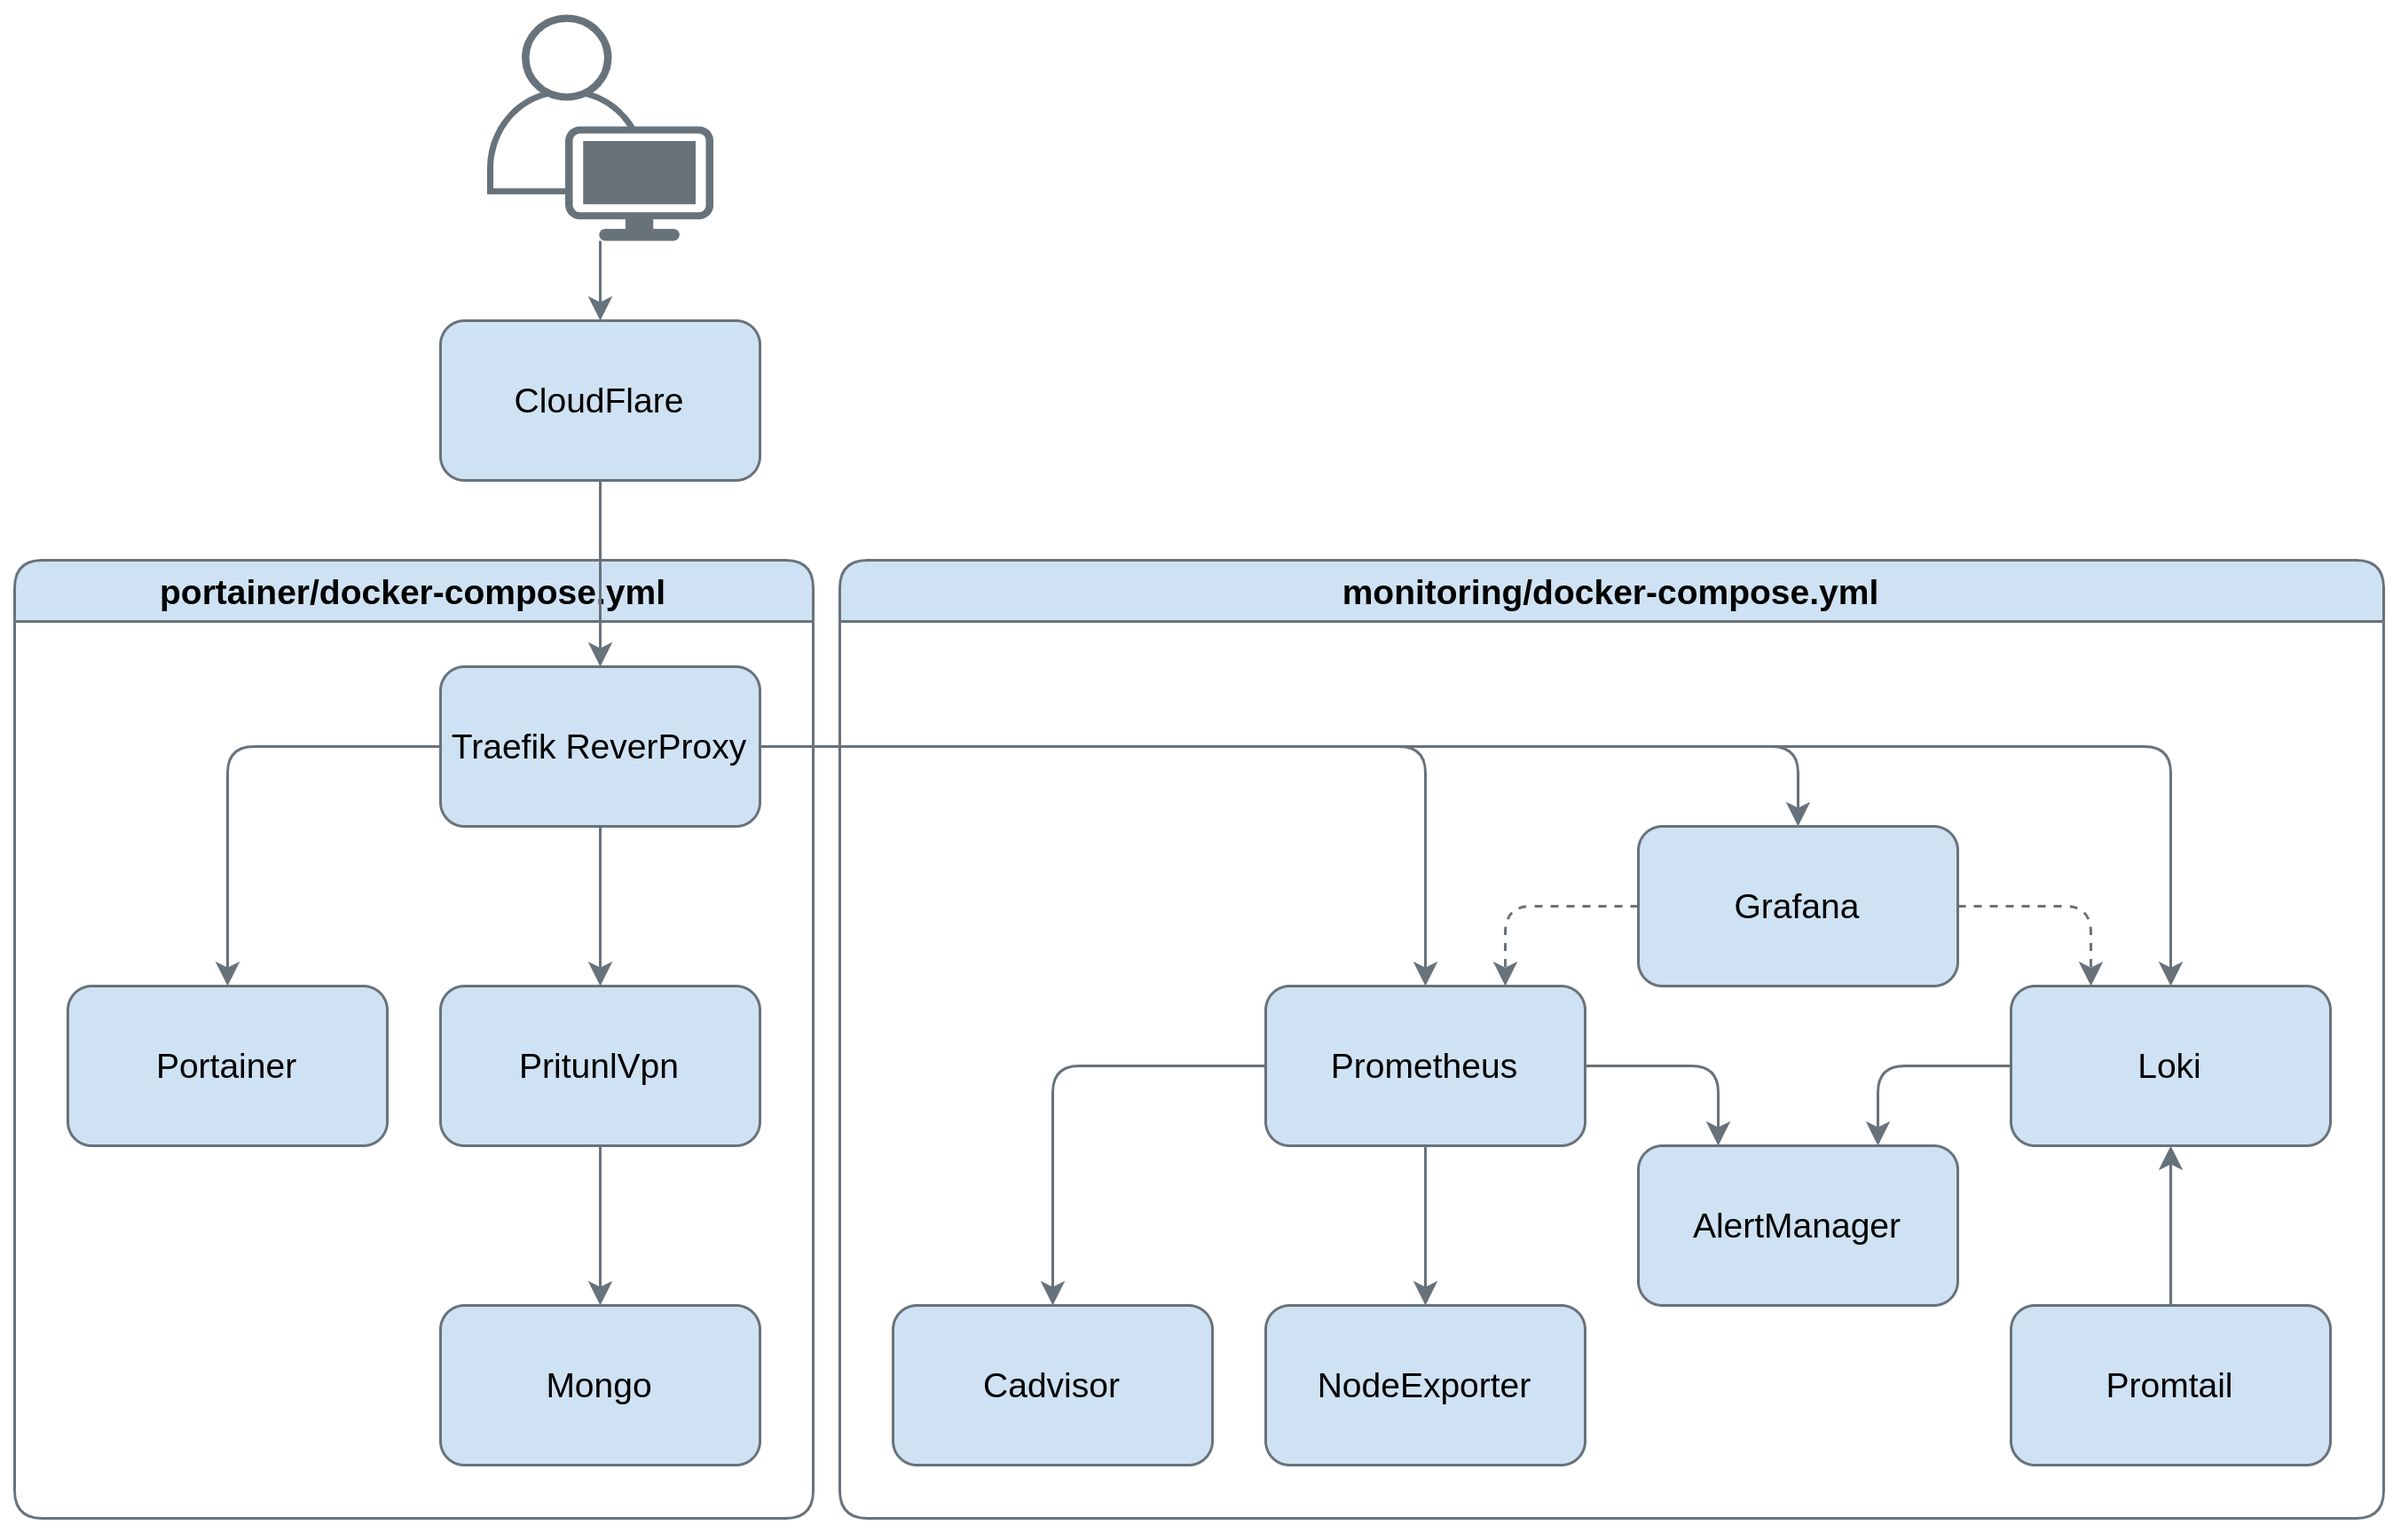
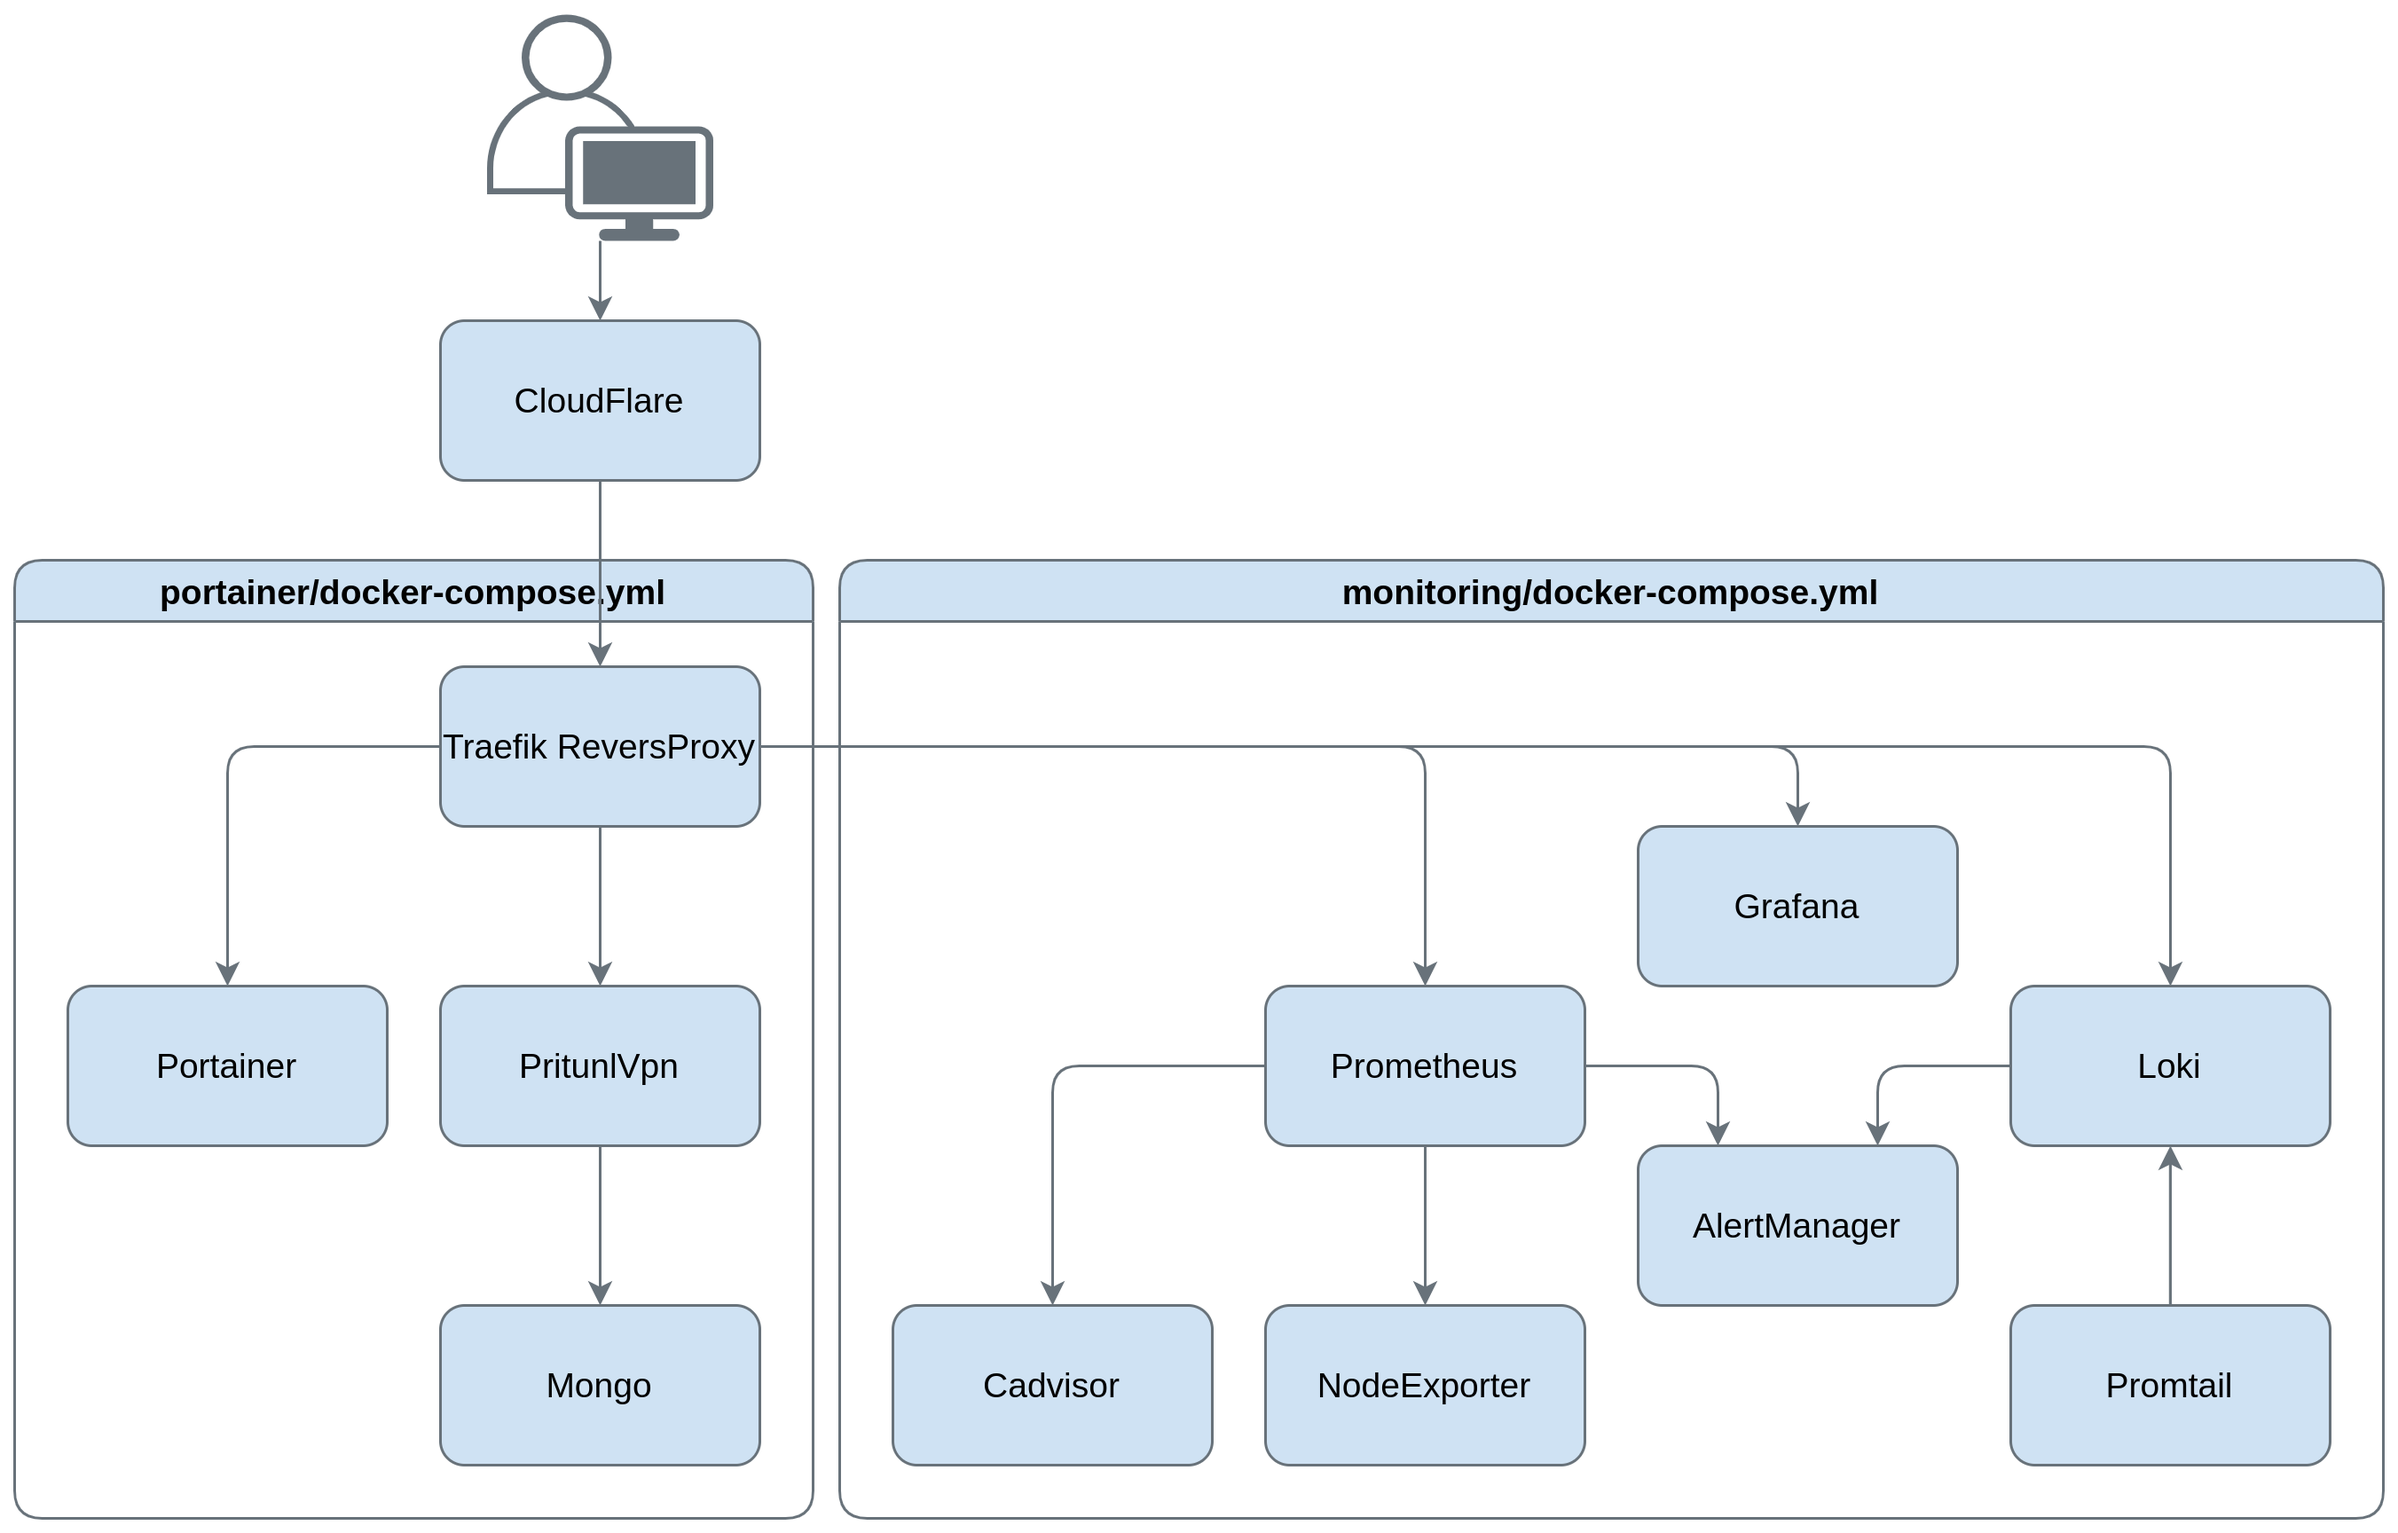
code format, move logs and fix diagram

diff --git a/README.md b/README.md
@@ -1,72 +1,77 @@
 # Turbo-umbrella
+
 The configuration makes it easy to deploy a docker host that includes monitoring tools, https settings, and portainer for better manageability.
 
 ![turbo-umprella docker diagram](/diagram.png)
 
 This is perfect for a personal server, lab or small project.
 
-  - cloudflare cdn connection
-  - traefik  + metriks + logs
-  - ip white list wich uses X-Forwarded-For labels
-  - configured grafana with dashboards for cadvisor, traefik, node-exporter and loki 
-  - scripts for setup, updating grafana dashboards and docker cleaning
-  - pritunlVpn for secure connection
+- cloudflare cdn connection
+- traefik + metriks + logs
+- ip white list wich uses X-Forwarded-For labels
+- configured grafana with dashboards for cadvisor, traefik, node-exporter and loki
+- scripts for setup, updating grafana dashboards and docker cleaning
+- pritunlVpn for secure connection
 
 #### Pre-requisites
- - Docker
- - Сonfigured firewall
- - Сonfigured user policy
- - Domain name and cloudflare account
+
+- Docker
+- Сonfigured firewall
+- Сonfigured user policy
+- Domain name and cloudflare account
 
 ## Discription
+
 **Portainer** folder for container managment and security:
- - [Traefik](https://github.com/traefik/traefik)
- - [Portainer](https://github.com/portainer/portainer)
- - [Pritunl VPN](https://docs.pritunl.com/docs)
+
+- [Traefik](https://github.com/traefik/traefik)
+- [Portainer](https://github.com/portainer/portainer)
+- [Pritunl VPN](https://docs.pritunl.com/docs)
 
 **Monitoring** folder:
- - [Prometheus](https://prometheus.io/docs/introduction/overview/)
- - [Grafana](https://grafana.com/docs/grafana/latest/)
- - [Node Exporter](https://github.com/prometheus/node_exporter)
- - [Alert Manager](https://prometheus.io/docs/alerting/latest/configuration/)
- - [Cadvisor](https://github.com/google/cadvisor)
- - [Loki](https://grafana.com/docs/loki/latest/)
- - [Promtail](https://grafana.com/docs/loki/latest/clients/promtail/)
+
+- [Prometheus](https://prometheus.io/docs/introduction/overview/)
+- [Grafana](https://grafana.com/docs/grafana/latest/)
+- [Node Exporter](https://github.com/prometheus/node_exporter)
+- [Alert Manager](https://prometheus.io/docs/alerting/latest/configuration/)
+- [Cadvisor](https://github.com/google/cadvisor)
+- [Loki](https://grafana.com/docs/loki/latest/)
+- [Promtail](https://grafana.com/docs/loki/latest/clients/promtail/)
 
 ### Network
 
 List of open ports:
 
-| Port | Protocol | Description |
-| --- | --- | --- |
-| :443 | tcp | Traefik | 
-| :80 | tcp | Traefik | 
-| :16285 | udp | OpenVpn server | 
+| Port   | Protocol | Description    |
+| ------ | -------- | -------------- |
+| :443   | tcp      | Traefik        |
+| :80    | tcp      | Traefik        |
+| :16285 | udp      | OpenVpn server |
 
 ### List of portainer/.env variables:
 
-| Name |  Description |
-| ---|  --- |
-| ACME_EMAIL | email for traefic certificates resolvers  |
-| CF_API_KEY |  [cloudflare api key](https://developers.cloudflare.com/analytics/graphql-api/getting-started/authentication/api-key-auth/) |
-| CF_API_EMAIL | cloudflare api email |
-| DOMAIN | main domain |
-| SUB_PORTAINER | subdomain for portainer |
-| SUB_PRITUNL | subdomain for pritunl VPN |
-| IP_WHITE_LIST | ip for secure access to internal services (grafana, vpn panel and traefik) |
-| LOCAL_IPS | local ips list |
-| CLOUDFLARE_IPS | [cloudflare ip ranges](https://www.cloudflare.com/ips/) |
-| TZ | time zone |
+| Name           | Description                                                                                                                |
+| -------------- | -------------------------------------------------------------------------------------------------------------------------- |
+| ACME_EMAIL     | email for traefic certificates resolvers                                                                                   |
+| CF_API_KEY     | [cloudflare api key](https://developers.cloudflare.com/analytics/graphql-api/getting-started/authentication/api-key-auth/) |
+| CF_API_EMAIL   | cloudflare api email                                                                                                       |
+| DOMAIN         | main domain                                                                                                                |
+| SUB_PORTAINER  | subdomain for portainer                                                                                                    |
+| SUB_PRITUNL    | subdomain for pritunl VPN                                                                                                  |
+| IP_WHITE_LIST  | ip for secure access to internal services (grafana, vpn panel and traefik)                                                 |
+| LOCAL_IPS      | local ips list                                                                                                             |
+| CLOUDFLARE_IPS | [cloudflare ip ranges](https://www.cloudflare.com/ips/)                                                                    |
+| TZ             | time zone                                                                                                                  |
 
 ### List of monitoring/.env variables:
 
-| Name |  Description |
-| ---|  --- |
-| DOMAIN | main domain |
-| SUB_PROMETHEUS | subdomain for prometheus |
-| SUB_GRAFANA | subdomain for grafana |
+| Name                            | Description                        |
+| ------------------------------- | ---------------------------------- |
+| DOMAIN                          | main domain                        |
+| SUB_PROMETHEUS                  | subdomain for prometheus           |
+| SUB_GRAFANA                     | subdomain for grafana              |
 | GRAFANA_SECURITY_ADMIN_PASSWORD | default admin password for grafana |
-| TZ | time zone |
+| TZ                              | time zone                          |
 
 ## Setup portainer stack
 
